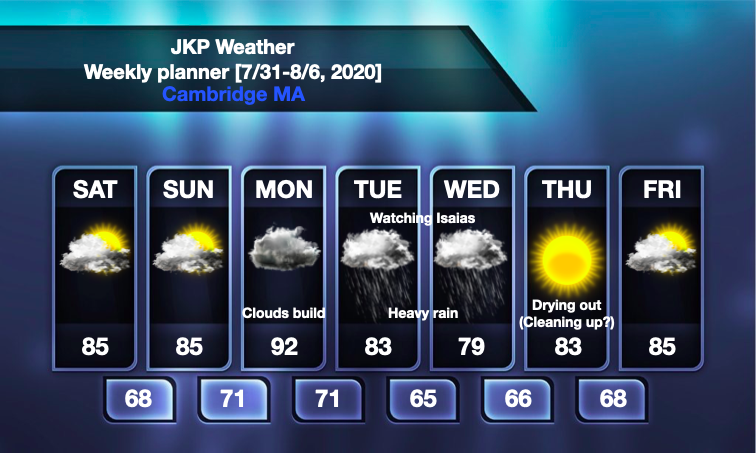
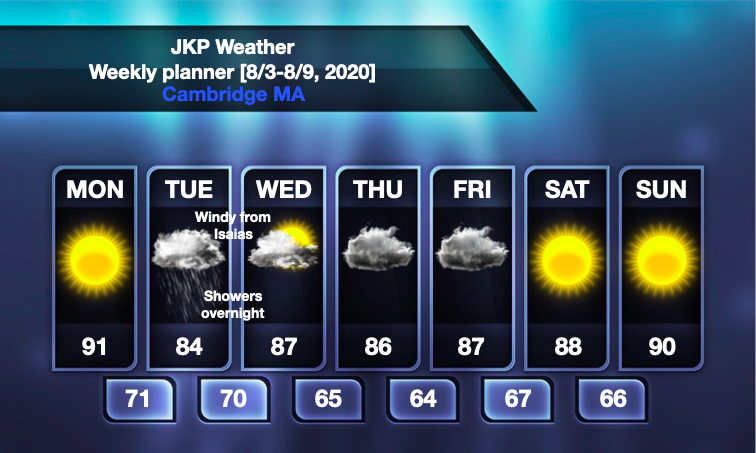
JKPWeather.com v12.3

diff --git a/thoughtsv2.html b/thoughtsv2.html
@@ -213,7 +213,7 @@ a {
           8/2/2020
         </h2>
         <p class=sansserif>
-          Today in the Boston area will be hot. Highs will range from the mid-80s to around 90. There will be increasing cloudiness during the day. To the west, especially upstate New York, severe weather is expected today with tornadoes possible. However, that activity will not make it past the Berkshires. It is possible a stray shower sneaks through, but there will not be severe weather, and any thunderstorms that make it east will be weak and isolated in nature. Tomorrow, highs will be in the low-90s, but clouds will build ahead of Tropical Storm Isaias. Rain is not expected until Tuesday.
+          Today in the boston area will be hot, with temperatures in the low-90s. The clouds from Tropical Storm Isaias will likely hold off until after sunset, so it should be a clear and sunny day. Dew points in the mid-70s this morning will give way to dew points in the low- to mid-60s later, so humidity will not be a huge factor. Heat indices will likely be 1-3 degrees above the actual temperature. Tomorrow, it will be cloudy by morning, but rain and wind holds off until night. Temperatures will be in the low-80s.
         </p>
         <div class=extra_space>
 

diff --git a/index.html b/index.html
@@ -16,7 +16,7 @@
         /* get rid of white space */
 body {
   margin: 0;
-  font-family: Arial, Helvetica, sans-serif
+  font-family: Garamond, Helvetica, sans-serif
 }
 
 /* add color gradient, fill screen, and add some bottom padding */
@@ -77,7 +77,7 @@ h1 {
 
 a {
     color: #ffffff;
-    font-family: Arial, Helvetica, sans-serif;
+    font-family: Garamond, Helvetica, sans-serif;
     text-decoration: none;
     font-size: 16px;
     display: table-cell;
@@ -96,7 +96,7 @@ a {
   margin-left: 2.25em;
   margin-bottom: 10px;
   border-radius: 10px; */
-  font-family: Arial, Helvetica, sans-serif;
+  font-family: Garamond, Helvetica, sans-serif;
   font-size: 16px;
   border: none;
   line-height: 1.5em;

diff --git a/log.html b/log.html
@@ -213,6 +213,7 @@ h4 {
         </div>
       </div>
         <h4 class=sansserif>
+          8/3/2020 8:48 AM: The 7 day forecast, daily planner, and daily thoughts were updated.. v12.3 <br>
           8/2/2020 7:21 PM: An error where the archive pages showed up incorrectly or did not show up was corrected. v12.2 <br>
           8/2/2020 6:30 PM: A new advisory for Tropical Storm Isaias was added. v12.1 <br>
           8/2/2020 5:47 PM: The 7 day forecast page and the blog pages were combined into the forecast tab, archive pages were added, the about page and the log were combined into the more tab, and the photography page was added. v12 <br>

diff --git a/microwavev2.html b/microwavev2.html
@@ -212,7 +212,7 @@
           </h3>
           
           <div class=nexlab>
-              <iframe src=tropic.ssec.wisc.edu/real-time/mimtc/tc.shtml height=1114px width=auto class="center" clickable=no scrolling=no></iframe>
+              <iframe src=https://www.nrlmry.navy.mil/TC.html height=1114px width=auto class="center" clickable=no scrolling=no></iframe>
           </div>
           <p class=end>
               Copyright JKPWeather 2020 | All rights reserved 
